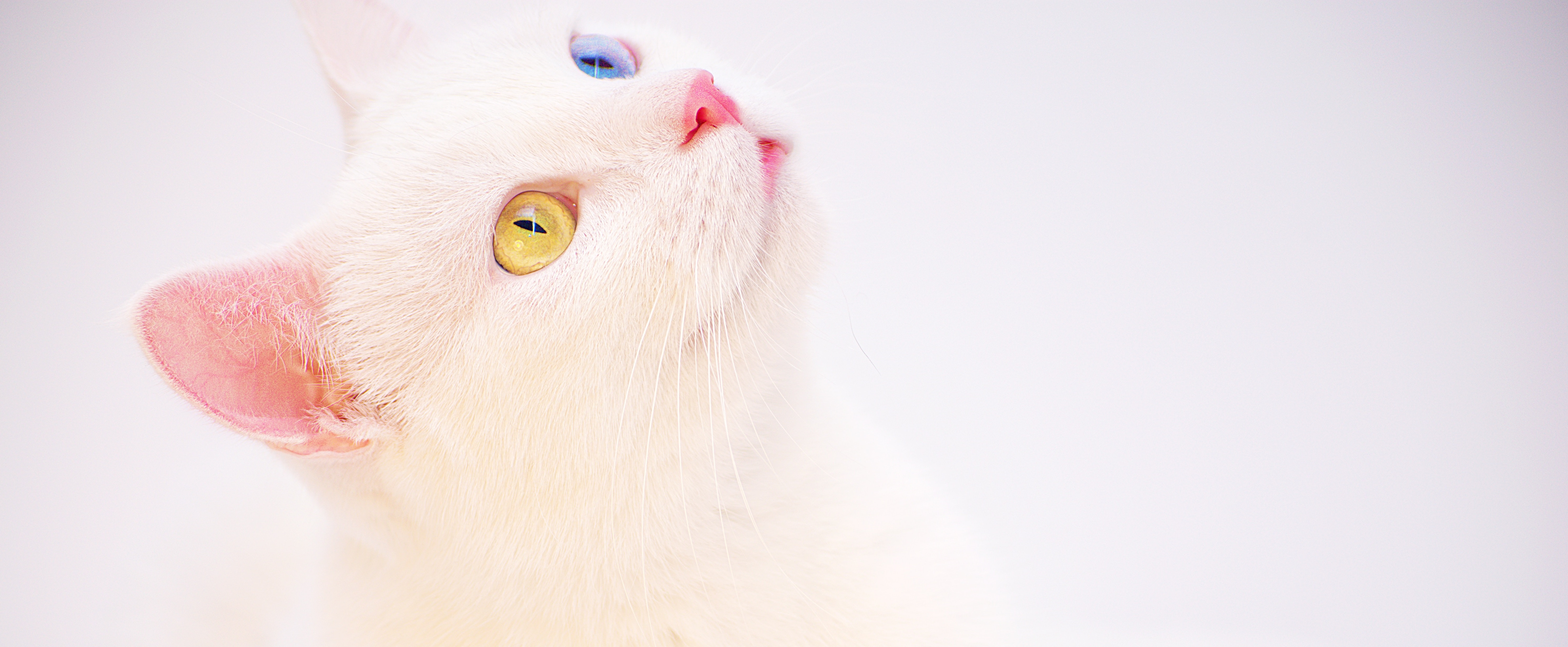
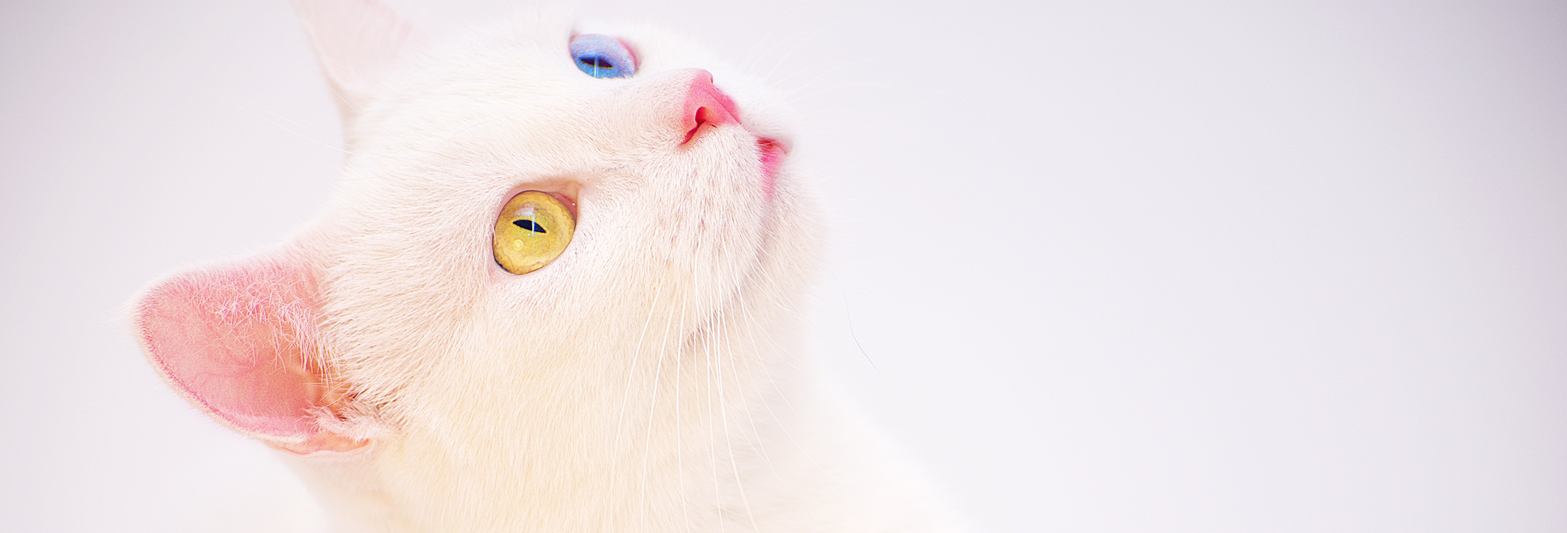
responsividade ajustada: section vacinas

diff --git a/src/styles/section-vacinas.css b/src/styles/section-vacinas.css
@@ -1,23 +1,44 @@
+.section_vacina {
+  display: flex;
+  flex-direction: column;
+  align-items: center;
+  justify-content: space-between;
+}
+
 .section_vacina-conteudo {
-  margin-top: -210px;
-}
-
-.section_title {
-  margin-left: 6px;
-}
-
-.section_vacina-conteudo h2 {
-  margin-right: 9rem;
-}
-
-.section_vacina-conteudo p {
-  margin-left: -1rem;
-  margin-right: 2rem;
+  padding: 5vh 0;
 }
 
 .vacina_img img {
-  margin-top: -250px;
+  padding: 2vh 0;
   border-radius: 20px;
+}
+
+@media only screen and (max-width: 1199px) {
+  .section-wrapper {
+    margin-top: -5vh;
+  }
+
+  .section_vacina-conteudo {
+    margin-top: -25vh;
+    font-size: 0.7rem;
+  }
+
+  .section_vacina-conteudo h2 {
+    font-size: 1.5rem;
+    margin-left: 7vw;
+    margin-right: 2vw;
+  }
+
+  .section_vacina-conteudo p {
+    margin-left: 5rem;
+  }
+
+  .vacina_img img {
+    margin-top: -25vh;
+    margin-left: 1vw;
+    border-radius: 20px;
+  }
 }
 
 @media only screen and (max-width: 1024px) {
@@ -42,14 +63,18 @@
   }
 }
 
-@media only screen and (max-width: 768px) {
+@media only screen and (max-width: 991px) {
+  .section-wrapper {
+    margin-top: -5vh;
+  }
+
   .section_vacina-conteudo {
-    font-size: 0.5rem;
+    font-size: 0.6rem;
   }
 
   .section_vacina-conteudo h2 {
-    font-size: 1.5rem;
-    margin-left: 7vw;
+    font-size: 1rem;
+    margin-left: 3vw;
     margin-right: 2vw;
   }
 
@@ -64,38 +89,99 @@
   }
 }
 
-@media only screen and (max-width: 425px) {
+@media only screen and (max-width: 767px) {
   .section_vacina-conteudo {
-    font-size: 0.7rem;
+    font-size: 1rem;
+    margin-top: -5vh;
   }
 
   .section_vacina-conteudo h2 {
-    font-size: 1.5rem;
-    margin-top: 3vh;
     margin-left: 5vw;
+    margin-top: 30vh;
   }
 
   .section_vacina-conteudo p {
-    margin-left: 1rem;
+    margin-left: 2rem;
   }
 
   .vacina_img img {
-    margin-top: -90vh;
-    margin-bottom: 20vh;
+    margin-top: -140vh;
     margin-left: 1vw;
     border-radius: 20px;
   }
 }
 
+@media only screen and (max-width: 470px) {
+  .section_vacina-conteudo {
+    font-size: 1rem;
+    margin-top: -25vh;
+  }
+
+  .section_vacina-conteudo h2 {
+    margin-left: 5vw;
+    margin-top: 30vh;
+  }
+
+  .section_vacina-conteudo p {
+    margin-left: 2rem;
+  }
+
+  .vacina_img img {
+    margin-top: -150vh;
+    margin-left: 1vw;
+    border-radius: 20px;
+  }
+}
+
+@media only screen and (max-width: 425px) {
+  .section-wrapper {
+    margin-top: -25vh;
+  }
+}
+
+@media only screen and (max-width: 425px) {
+  .vacina_img img {
+    margin-bottom: 10vh;
+  }
+}
+
+@media only screen and (max-width: 434px) {
+  .section_vacina-conteudo {
+    font-size: 1rem;
+    margin-top: -25vh;
+  }
+
+  .section_vacina-conteudo h2 {
+    margin-left: 5vw;
+    margin-top: 30vh;
+  }
+
+  .section_vacina-conteudo p {
+    margin-left: 2rem;
+  }
+
+  .vacina_img img {
+    margin-top: -160vh;
+    margin-left: 1vw;
+    border-radius: 20px;
+  }
+}
+
+@media only screen and (max-width: 360px) {
+  .vacina_img img {
+    margin-bottom: 40vh;
+  }
+}
+
 @media only screen and (max-width: 320px) {
   .section_vacina-conteudo {
-    margin-top: -30vh;
+    margin-top: -3vh;
     font-size: 0.7rem;
   }
 
   .section_vacina-conteudo h2 {
     font-size: 1.5rem;
-    margin-top: 3vh;
+    margin-top: -5vh;
     margin-left: 5vw;
   }
 
@@ -105,7 +191,7 @@
 
   .vacina_img img {
     margin-top: -100vh;
-    margin-bottom: 30vh;
+    margin-bottom: 25vh;
     margin-left: 1vw;
     border-radius: 20px;
   }

diff --git a/src/styles/section-consulta.css b/src/styles/section-consulta.css
@@ -16,6 +16,48 @@
   border-radius: 20px;
 }
 
+@media only screen and (max-width: 1399px) {
+  .section_consulta-conteudo {
+    font-size: 1rem;
+  }
+
+  .section_consulta-conteudo h2 {
+    font-size: 1.5rem;
+    margin-left: 10vw;
+  }
+
+  .section_consulta-conteudo p {
+    margin-left: 5rem;
+  }
+
+  .consulta_img img {
+    margin-top: -25vh;
+    margin-left: 1vw;
+    border-radius: 20px;
+  }
+}
+
+@media only screen and (max-width: 1199px) {
+  .section_consulta-conteudo {
+    font-size: 0.7rem;
+  }
+
+  .section_consulta-conteudo h2 {
+    font-size: 1.5rem;
+    margin-left: 10vw;
+  }
+
+  .section_consulta-conteudo p {
+    margin-left: 5rem;
+  }
+
+  .consulta_img img {
+    margin-top: -25vh;
+    margin-left: 1vw;
+    border-radius: 20px;
+  }
+}
+
 @media only screen and (max-width: 1024px) {
   .section_consulta-conteudo {
     font-size: 0.7rem;
@@ -36,13 +78,35 @@
   }
 }
 
-@media only screen and (max-width: 768px) {
+@media only screen and (max-width: 991px) {
   .section_consulta-conteudo {
-    font-size: 0.5rem;
+    font-size: 0.6rem;
+  }
+
+  .section_consulta-conteudo h2 {
+    font-size: 1rem;
+    margin-left: 10vw;
+  }
+
+  .section_consulta-conteudo p {
+    margin-left: 5rem;
+  }
+
+  .consulta_img img {
+    margin-top: -25vh;
+    margin-left: 1vw;
+    border-radius: 20px;
+  }
+}
+
+@media only screen and (max-width: 767px) {
+  .section_consulta-conteudo {
+    font-size: 1rem;
   }
 
   .section_consulta-conteudo h2 {
     margin-left: 5vw;
+    margin-top: 30vh;
   }
 
   .section_consulta-conteudo p {
@@ -58,7 +122,7 @@
 
 @media only screen and (max-width: 425px) {
   .section_consulta-conteudo {
-    margin-top: -14vh;
+    margin-top: -28vh;
 
     font-size: 0.7rem;
   }
@@ -72,7 +136,28 @@
   }
 
   .consulta_img img {
-    margin-top: -60vh;
+    margin-top: -30vh;
+    margin-left: 1vw;
+    border-radius: 20px;
+  }
+}
+@media only screen and (max-width: 320px) {
+  .section_consulta-conteudo {
+    margin-top: -42vh;
+
+    font-size: 0.7rem;
+  }
+
+  .section_consulta-conteudo h2 {
+    margin-left: 5vw;
+  }
+
+  .section_consulta-conteudo p {
+    margin-left: 1rem;
+  }
+
+  .consulta_img img {
+    margin-top: -50vh;
     margin-left: 1vw;
     border-radius: 20px;
   }

diff --git a/src/components/UI/SectionVacinas.jsx b/src/components/UI/SectionVacinas.jsx
@@ -13,7 +13,7 @@ const SectionVacinas = ({ vacinaClass }) => {
           : { marginTop: "150px" }
       }
     >
-      <Container>
+      <Container className="section-wrapper">
         <Row>
           <Col lg="6" md="6">
             <div className="section_vacina-conteudo">

diff --git a/src/styles/hero-slider.css b/src/styles/hero-slider.css
@@ -34,7 +34,6 @@ body {
   background-position: center;
   background-repeat: no-repeat;
   background-size: cover;
-  margin-top: 10vh;
 }
 
 .hero_slider {
